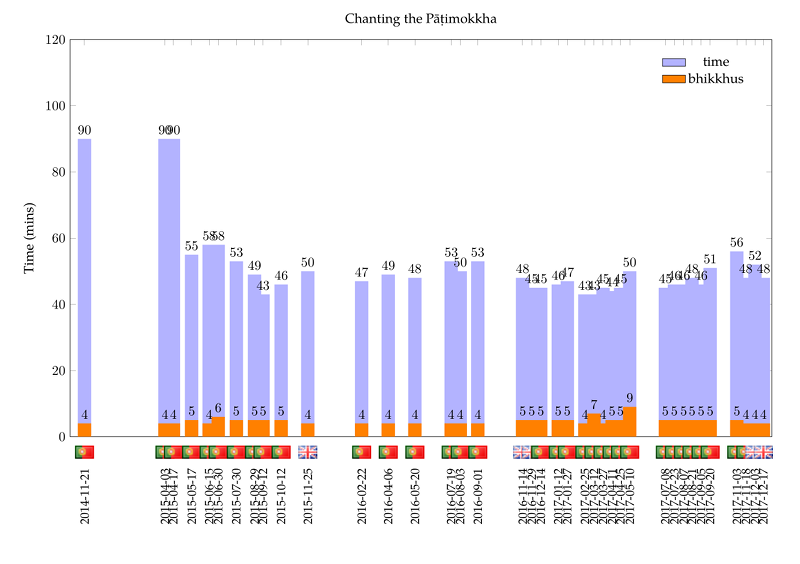
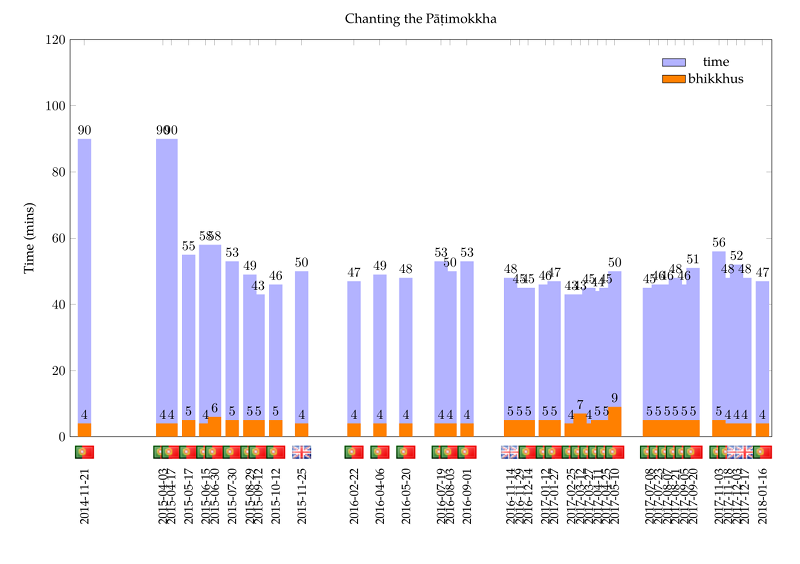
upd

Changed region(s): [[0.1875, 0.2713, 0.9688, 0.9344], [0.1875, 0.211, 0.2188, 0.2411], [0.0938, 0.9043, 0.125, 0.9344]]

diff --git a/src/patimokkha-chanting-chart.tex b/src/patimokkha-chanting-chart.tex
@@ -54,7 +54,7 @@
     ylabel=Time (mins),
     xtick=data,
     xmin=2014-11-20,
-    xmax=2017-12-31,
+    xmax=2018-02-01,
     enlarge x limits={rel=0.02,lower},
     xticklabel style={yshift=-20pt,rotate=90,anchor=east,font=\small},
     xticklabel={\year-\month-\day},
@@ -121,6 +121,7 @@
   \node [anchor=south, yshift=-20pt] at (axis cs:2017-11-18,0) {\includegraphics[width=5mm]{pt}};
   \node [anchor=south, yshift=-20pt] at (axis cs:2017-12-03,0) {\includegraphics[width=5mm]{gb}};
   \node [anchor=south, yshift=-20pt] at (axis cs:2017-12-17,0) {\includegraphics[width=5mm]{gb}};
+  \node [anchor=south, yshift=-20pt] at (axis cs:2018-01-16,0) {\includegraphics[width=5mm]{pt}};
 
 \end{axis}
 \end{tikzpicture}
